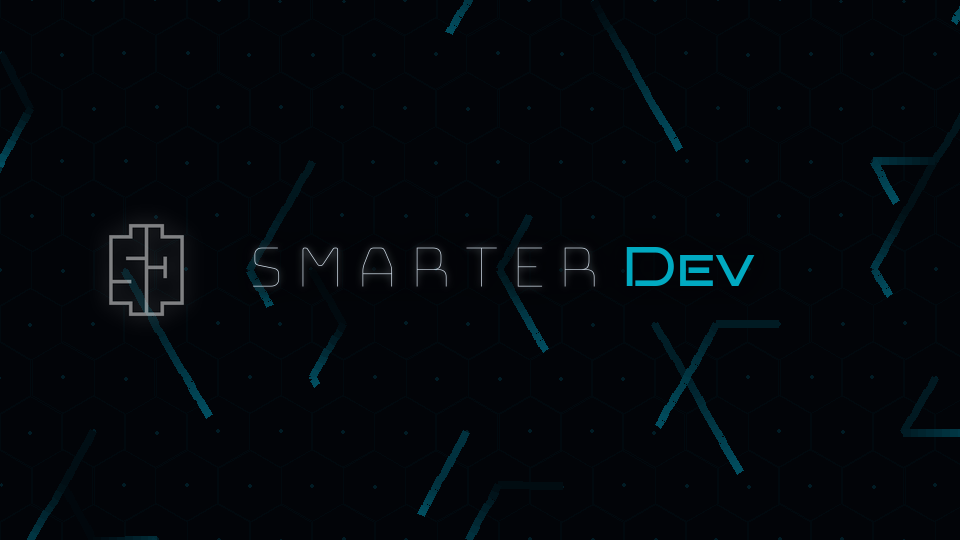
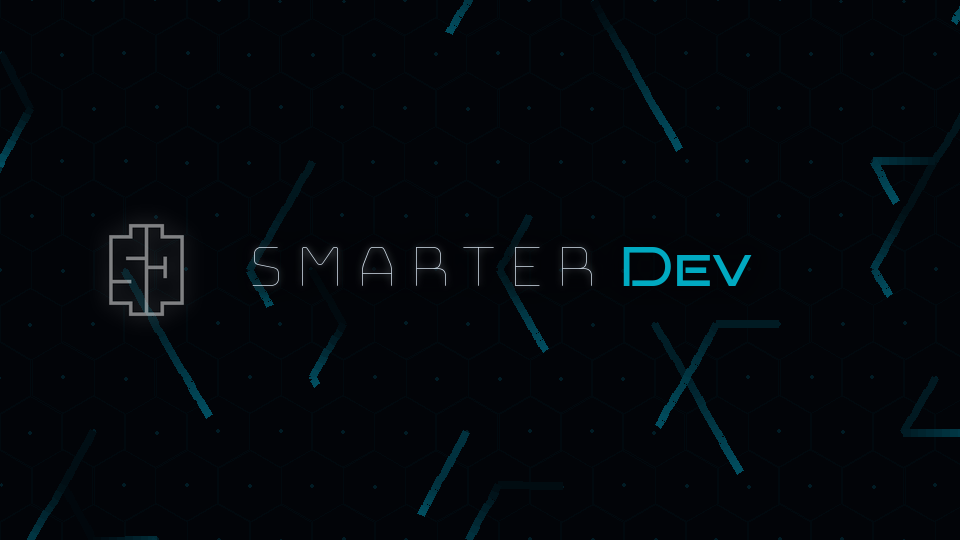
Fix gif encoding to play nice with discord's backend

diff --git a/generate_discord_assets.py b/generate_discord_assets.py
@@ -628,9 +628,14 @@ def generate_icon():
         if (f + 1) % 20 == 0 or f == total_frames - 1:
             print(f"  Frame {f + 1}/{total_frames}")
 
-    # Quantize frames to a reduced palette for smaller file size
-    quantized = [fr.quantize(colors=64, method=Image.Quantize.MEDIANCUT)
-                 for fr in frames]
+    # Build a single palette from all frames combined
+    combined = Image.new("RGB", (frames[0].width, len(frames) * frames[0].height))
+    for i, fr in enumerate(frames):
+        combined.paste(fr, (0, i * fr.height))
+    palette_source = combined.quantize(colors=64, method=Image.Quantize.MEDIANCUT)
+
+    # Quantize each frame using the shared palette
+    quantized = [fr.quantize(palette=palette_source, dither=Image.Dither.NONE) for fr in frames]
 
     # Save GIF
     frame_duration = int(1000 / ICON_FPS)
@@ -641,6 +646,17 @@ def generate_icon():
         duration=frame_duration,
         loop=0,
         optimize=True,
+
+        # Fixes a discord gif optimizer bug that happens with downscaled
+        #  gifs that use optimize and disposal modes 0/1.
+        # Disposal=1 would have a smaller file, however that requires optimize
+        #  to remove ghosting, which combined with disposal=1 is the cause of
+        #  buggy downscales by discord.
+        # Disposal=2 forces a new frame every draw, which is only a few KiB extra,
+        #  and evades the oddities with optimize and disposal=1.
+        disposal=2,
+        palette=palette_source,
+        include_color_table=False
     )
     print(f"  Saved icon: {ICON_OUTPUT}")
     print(f"  Size: {ICON_OUTPUT.stat().st_size / 1024:.1f} KB")
